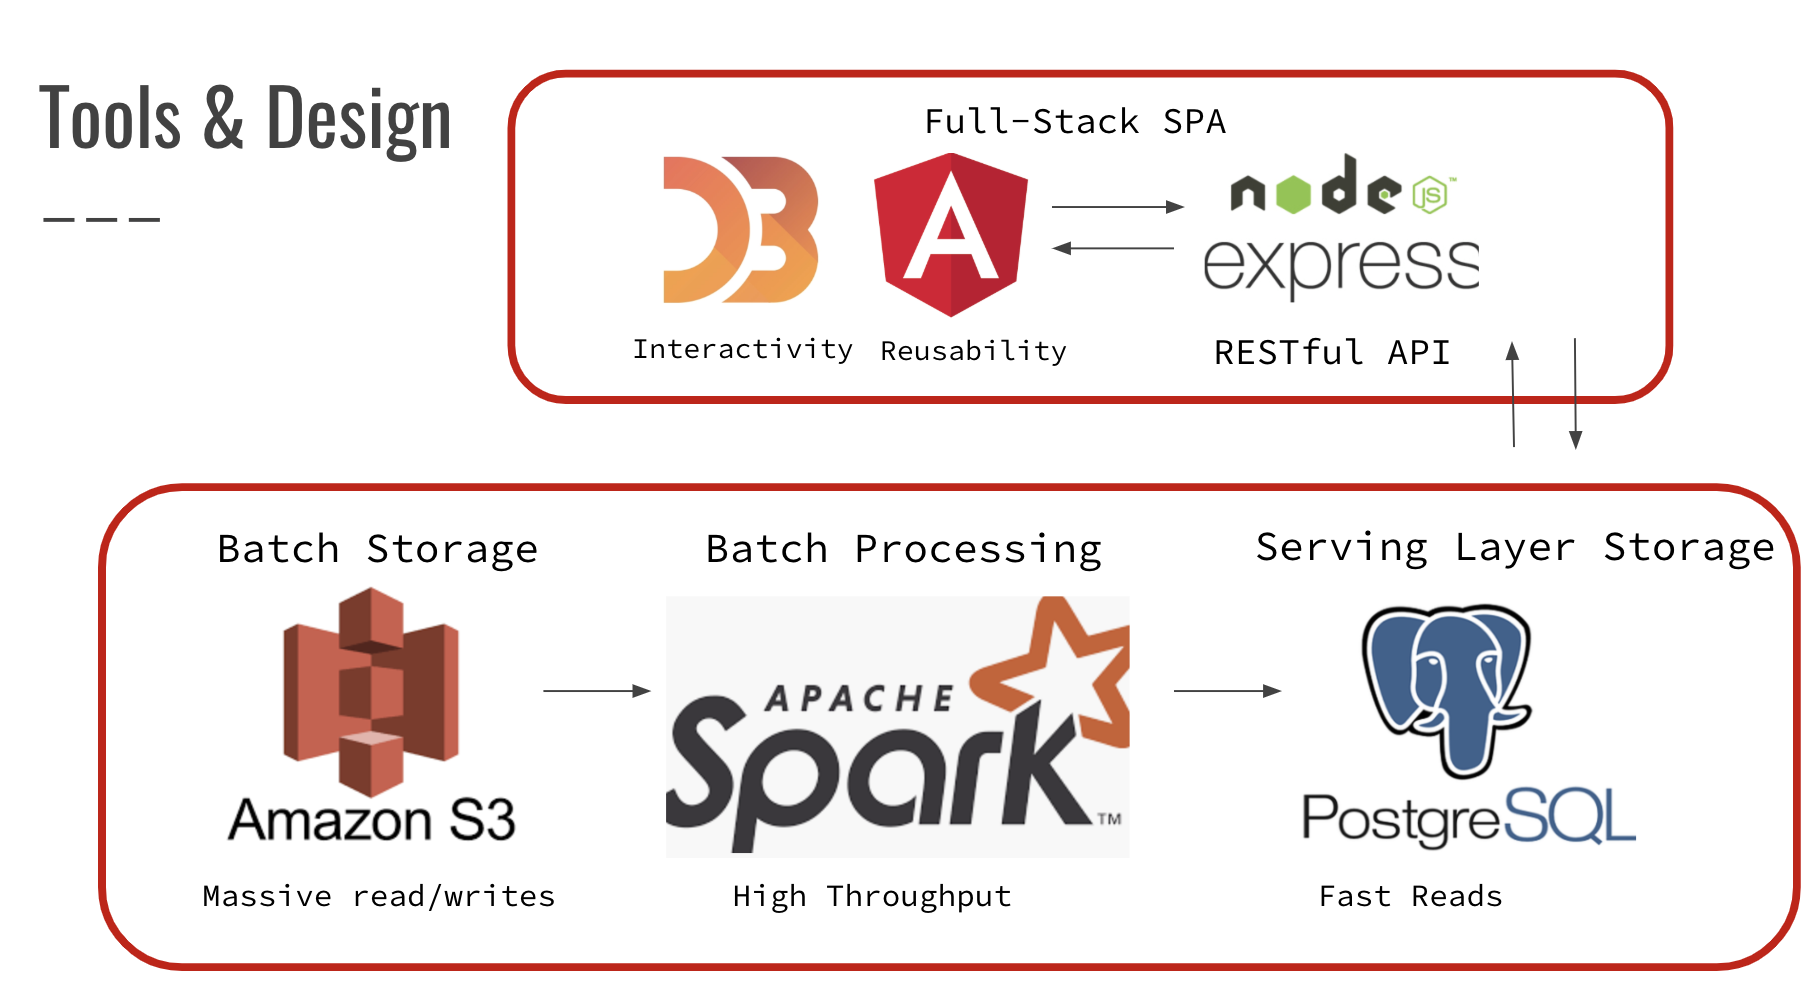
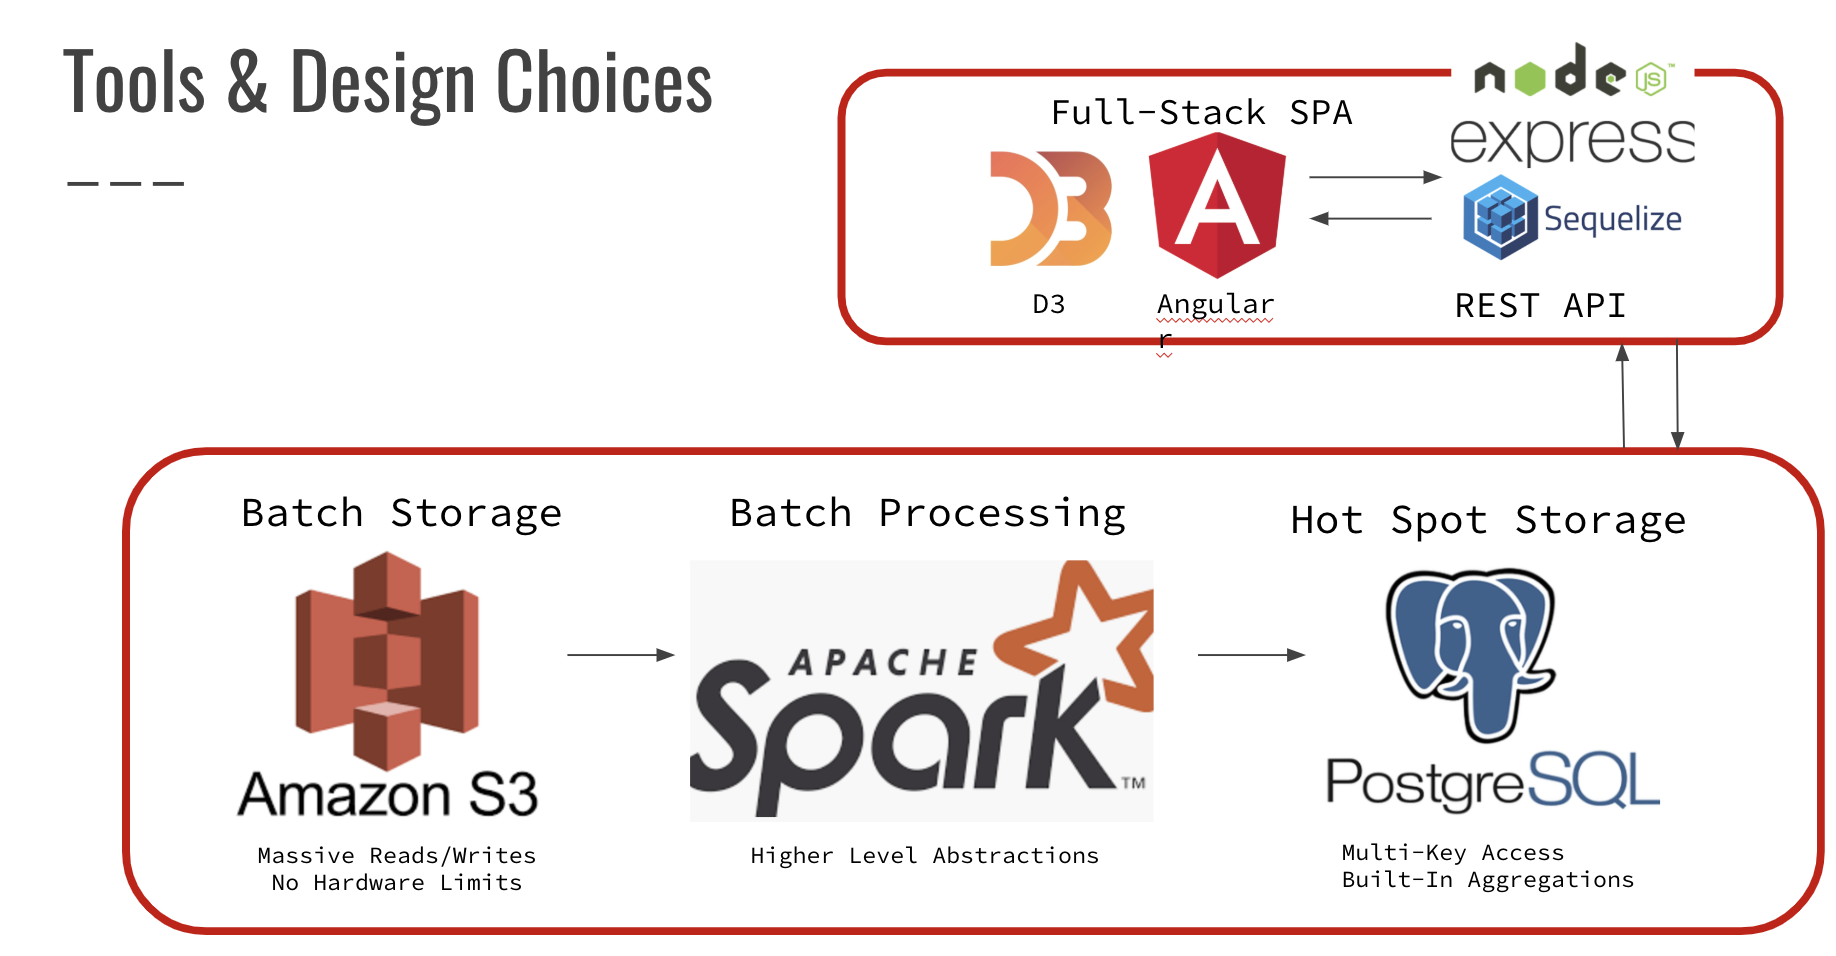
updated readme

diff --git a/README.md b/README.md
@@ -4,7 +4,7 @@
 
 The economic cost of traffic congestion exceeds $500 billion a year and is projected to get worse over time as more people move into cities. Having access to fine-grained historical traffic patterns is useful for data analysts who wants to visualize the data and data scientists running traffic prediction algorithms. 
 
-WeeWaze is a project I built while I was a data engineering fellow at Insight Data Science. The purpose of WeeWaze is to translate approximately 87GB of GPS logs from SFMTA into a format that can be used to dynamically generate historical traffic patterns in San Francisco given an arbitary time range.  I built a scalable pipeline that supports ad hoc queries, a single page application that interacts with the user, and a REST API that interfaces with the entire dataset post transformation.  Take a look at the API [here](https://github.com/yezixbei/WeeWaze/tree/master/app_api).  See a demo of the website here:  [http://bit.ly/WeeWaze](http://bit.ly/WeeWaze).
+WeeWaze is a project I built while I was a data engineering fellow at Insight Data Science. The purpose of WeeWaze is to translate approximately 87GB of GPS logs from SFMTA into a format that can be used to dynamically generate historical traffic patterns in San Francisco given an arbitary time range.  I built a scalable pipeline that supports ad hoc queries, a single page application that interacts with the user, and a REST API that interfaces with the entire dataset post transformation.  Take a look at the API inside [root/app_public](https://github.com/yezixbei/WeeWaze/tree/master/app_api).  See a demo of the live website on heroku:  [http://bit.ly/WeeWaze](http://bit.ly/WeeWaze).
 
 ![weewaze_front_page](app_public/src/assets/pics/weewaze_front_page.png)
 
@@ -12,15 +12,15 @@ WeeWaze is a project I built while I was a data engineering fellow at Insight Da
 
 ## Dataset
 
-The batch data consists of 87GB of GPS logs spread over approximately 1200 CSV files.  It covers the routes of 330 buses in San Francisco over the span of four years from 2013 to 2016. It has the following schema: [REV, REPORT_TIME, VEHICLE_TAG, LONGITUDE, LATITUDE, SPEED, HEADING, TRAIN_ASSIGNMENT, PREDICTABLE], but the columns we are interested in are [REPORT_TIME, LONGITUDE, LATITUDE, SPEED, HEADING]. The size of the original dataset is about a billion rows.  See the dataset [here](https://data.sfgov.org/Transportation/Historical-raw-AVL-GPS-data/5fk7-ivit).
+The batch data consists of 87GB of GPS logs spread over approximately 1200 CSV files.  It covers the routes of 330 buses in San Francisco over the span of four years from 2013 to 2016. It has the following schema: [REV, REPORT_TIME, VEHICLE_TAG, LONGITUDE, LATITUDE, SPEED, HEADING, TRAIN_ASSIGNMENT, PREDICTABLE], but the columns we are interested in are [REPORT_TIME, LONGITUDE, LATITUDE, SPEED, HEADING]. The size of the original dataset is about a billion rows.  See the dataset at [data.sfgov.org](https://data.sfgov.org/Transportation/Historical-raw-AVL-GPS-data/5fk7-ivit).
 
 
 
 ## Tools & Design Decisions
 
-I used S3 for batch storage, Spark for batch processing, and PostgreSQL for serving layer storage.
+I used S3 for batch storage, Spark for batch processing, and PostgreSQL for "hot spot" storage. I used S3 because I needed something that can do massive reads and writes, and I chose it over HDFS because it was cheaper and can expand without hardware limits. I choose Spark over Hadoop for batch processing because I could work with higher level abstrations like dataframes rather than write every single command in map-reduce. If time to deployment was not an issue, and I had time to become a Hadoop expert, I would consider using Hadoop becauese it is computationally cheaper. I chose PostgreSQL for "hot spot" storage because it offered simple data models, multi-key access (as opposed to single-key access for a document database), and built-in aggregations.  If I had used a document database I would have had to duplicate my tables for each unit of time in order to get a time querable view.  The downside is Postgres is not write scalable; if I ever want to update this project to include real-time views and scale up the number of users, I would have to switch to a NoSQL database.
 
-I built the REST API with Express.js and Sequelize and the single page application with D3 and Angular. Angular was chosen for the front end for its reusable components because of the short time constraints of the project. 
+I built the REST API with Express, Sequelize, and Node.js and the single page application with D3 and Angular. Angular was chosen for the front end for its reusable components because of the short time constraints of the project, and D3 provides interactive data visualizations. 
 
 ![tools_design](app_public/src/assets/pics/tools_design.png)
 

diff --git a/app_api/README.md b/app_api/README.md
@@ -32,7 +32,7 @@ GET http://bit.ly.WeeWaze/api/fullMap/area
             "latitude": 37.765,
             "speed": "23.189"
         },
-   			...
+   		...
    ]
 ```
 
@@ -63,7 +63,7 @@ GET http://bit.ly.WeeWaze/api/fullMap/day
             "latitude": 37.765,
             "speed": "23.189"
         },
-   			...
+   		...
    ]
 ```
 
@@ -94,7 +94,7 @@ GET http://bit.ly.WeeWaze/api/fullMap/hour
             "latitude": 37.765,
             "speed": "23.189"
         },
-   			...
+        ...
    ]
 ```
 
@@ -131,7 +131,7 @@ GET http://bit.ly.WeeWaze/api/fullMap/all
             "latitude": 37.765,
             "speed": "23.189"
         },
-   			...
+   		...
    ]
 ```
 
@@ -163,7 +163,7 @@ GET http://bit.ly.WeeWaze/api/fullMap
             "latitude": 37.765,
             "speed": "23.189"
         },
-   			...
+   		...
    ]
 ```
 
@@ -195,7 +195,7 @@ GET http://bit.ly.WeeWaze/api/partMap
             "latitude": 37.765,
             "speed": "23.189"
         },
-   			...
+   		...
    ]
 ```
 
